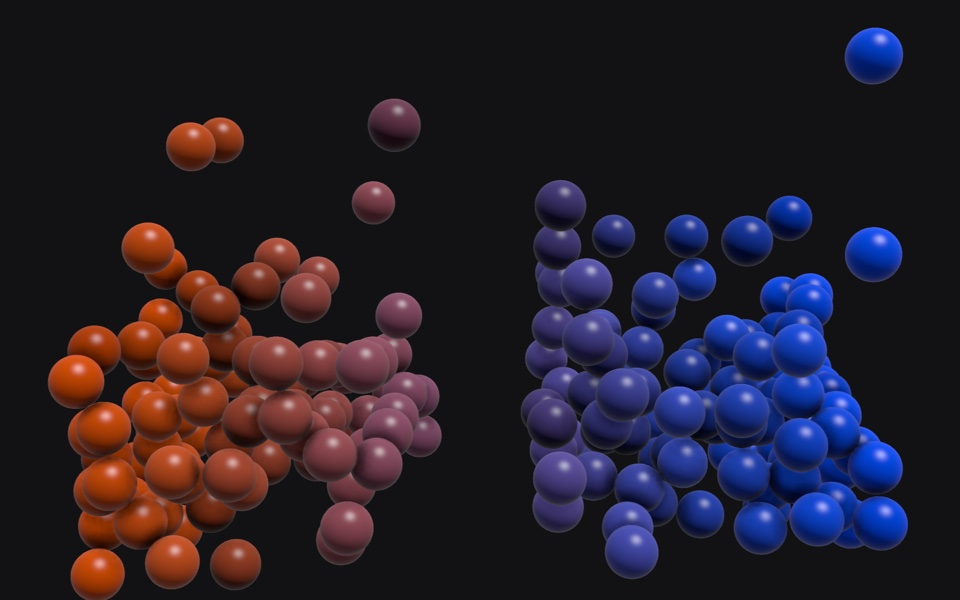
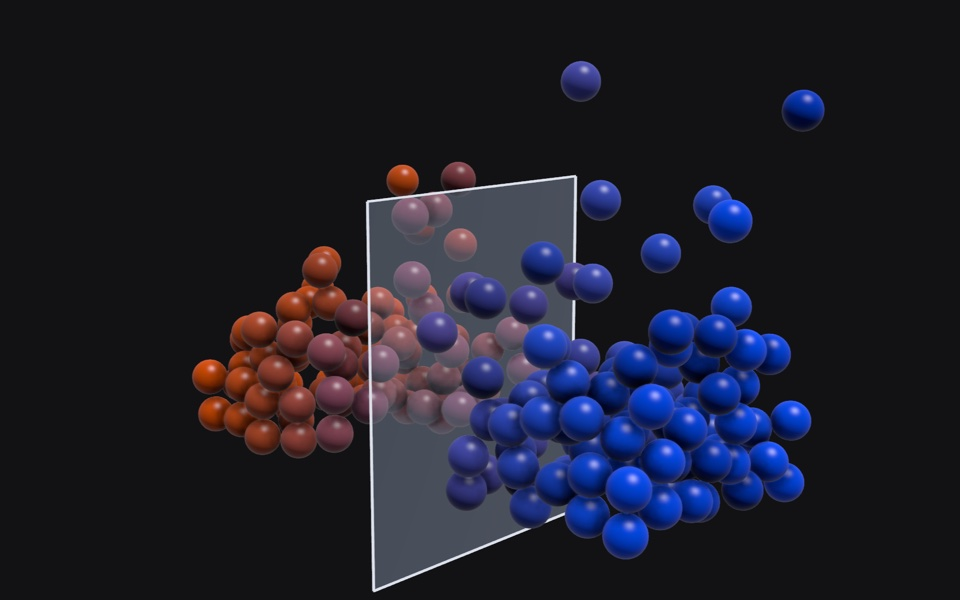
iOS: show Maxwell's demon wall as a pane, and add the missing droplet picture
The example's camera is turned to an angle so the translucent wall between
the chambers is seen as a pane instead of edge-on as a thin line, and the
gallery picture is retaken from it. The droplet splash's gallery picture
had not been copied into Examples.

diff --git a/src/ios/tools/port_atomify2_examples.py b/src/ios/tools/port_atomify2_examples.py
@@ -120,7 +120,7 @@ CAMERA_FIXES = {
     "gas_hydrates": ({"position": [0.0, 0.0, 72.0]}, "camera moved back 2.4x so the whole crystal is in view"),
     "patterns": ({"position": [0.0, 0.0, 100.0]}, "camera moved back 2x so the whole system is in view"),
     "patterns_final": ({"position": [0.0, 0.0, 100.0]}, "camera moved back 2x so the whole system is in view"),
-    "maxwell": ({"position": [-28.0, 0.0, -14.0], "target": [0.0, 0.0, -18.0], "up": [0.0, 0.0, 1.0]}, "camera turned right side up and moved back to show both chambers from the side"),
+    "maxwell": ({"position": [-26.0, -24.0, -11.0], "target": [0.0, 0.0, -18.0], "up": [0.0, 0.0, 1.0]}, "camera turned right side up and moved around to an angle, so the wall between the chambers is seen as a pane and not edge-on"),
     "betacristobalite": ({"position": [40.0, 30.0, 78.0]}, "camera moved back 1.7x and turned off the crystal axis so the tetrahedra are not seen end-on"),
     "generate_nanoporous": ({"position": [99.0, -46.5, 127.5]}, "camera moved back 1.5x so the whole system is in view"),
 }
